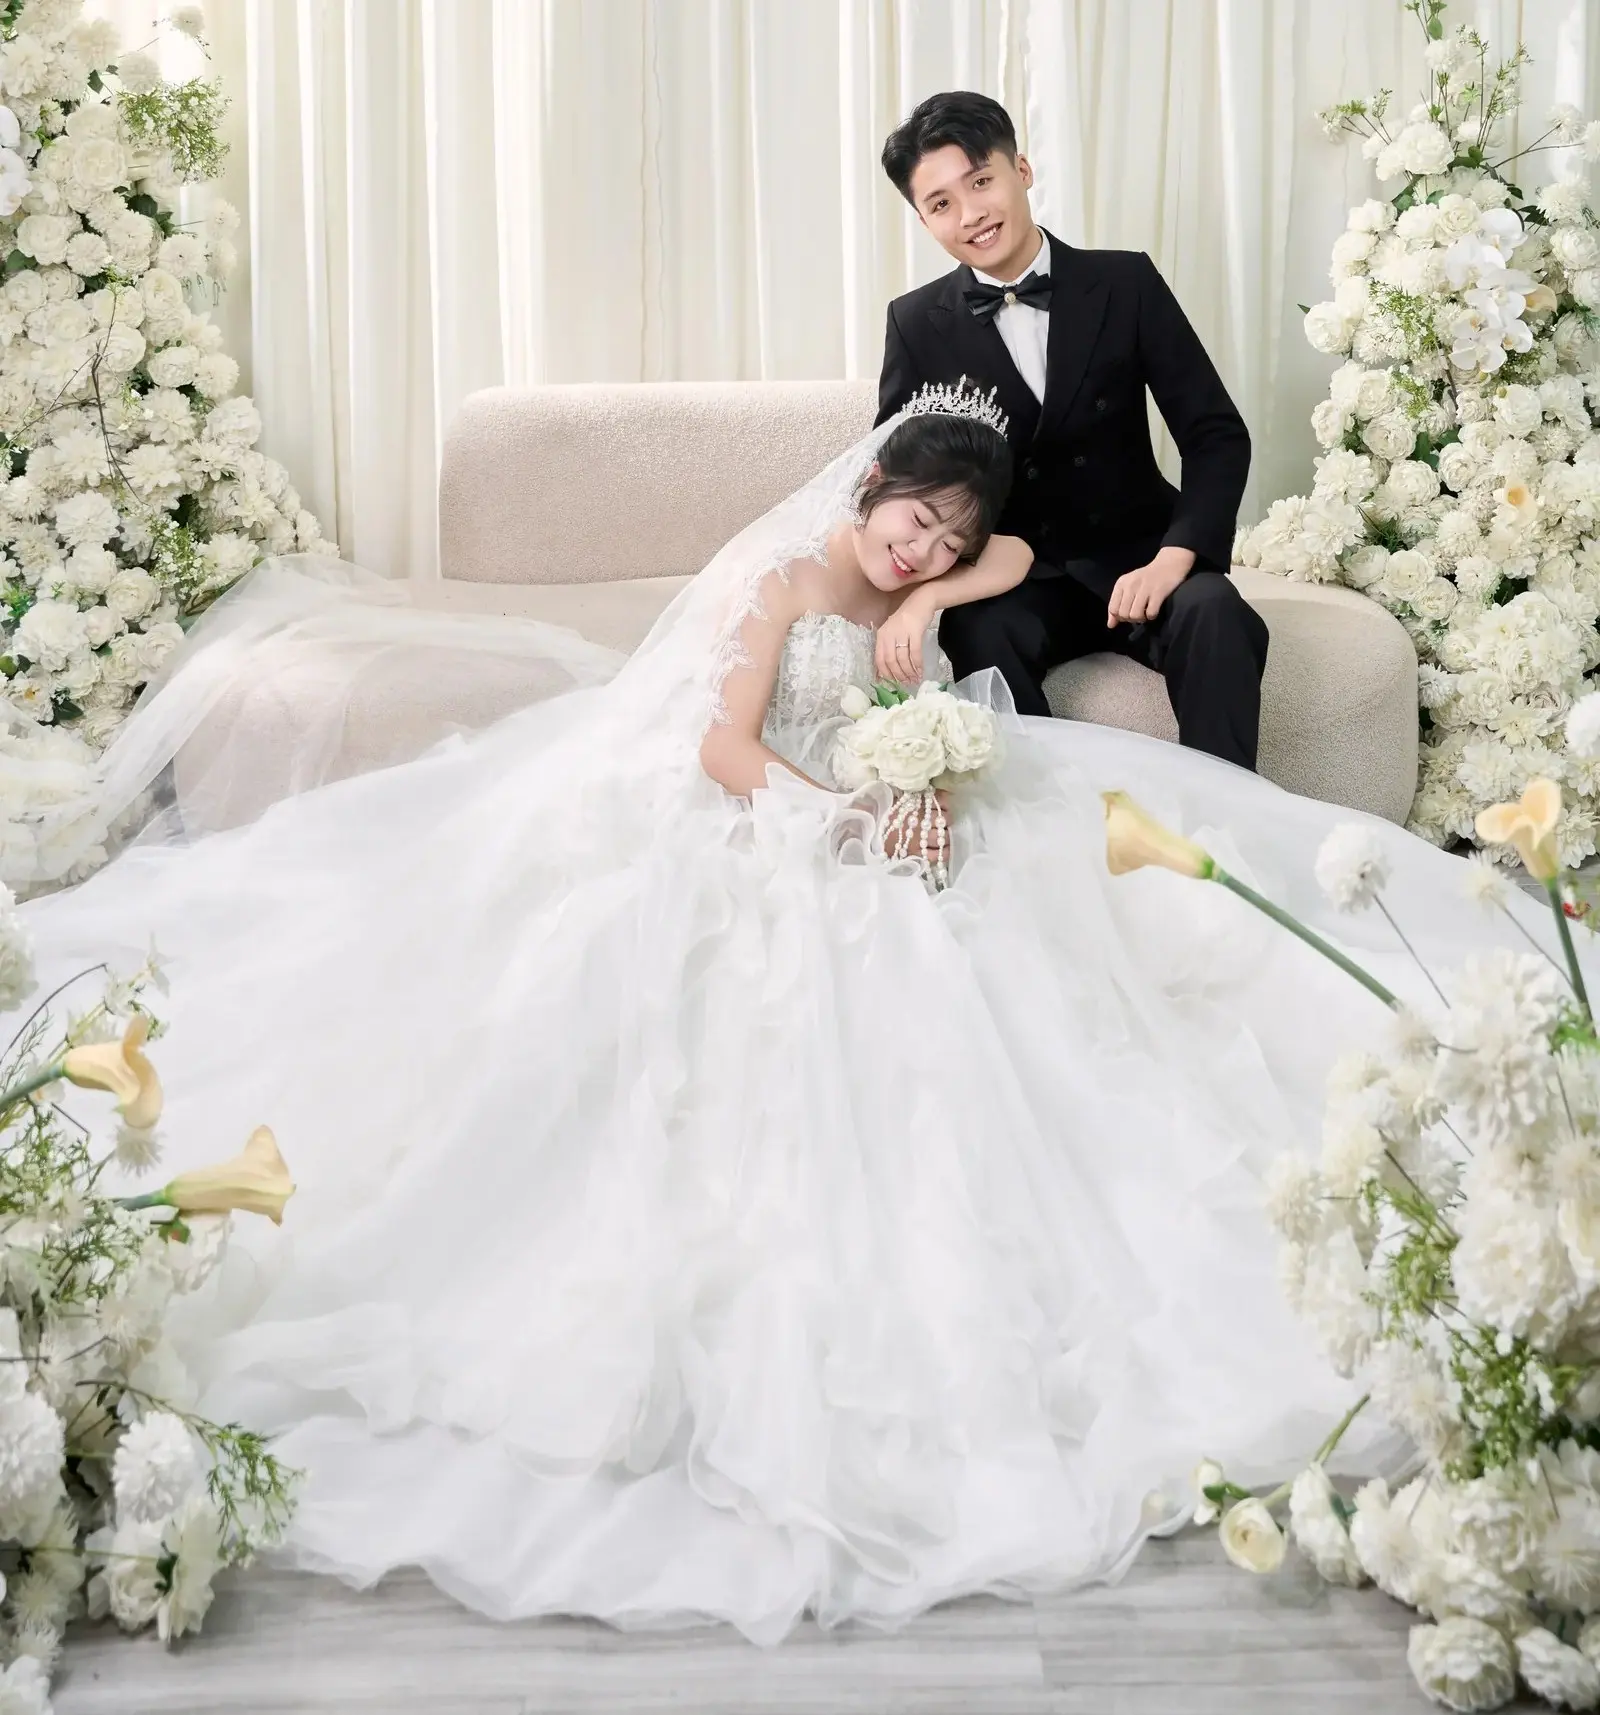
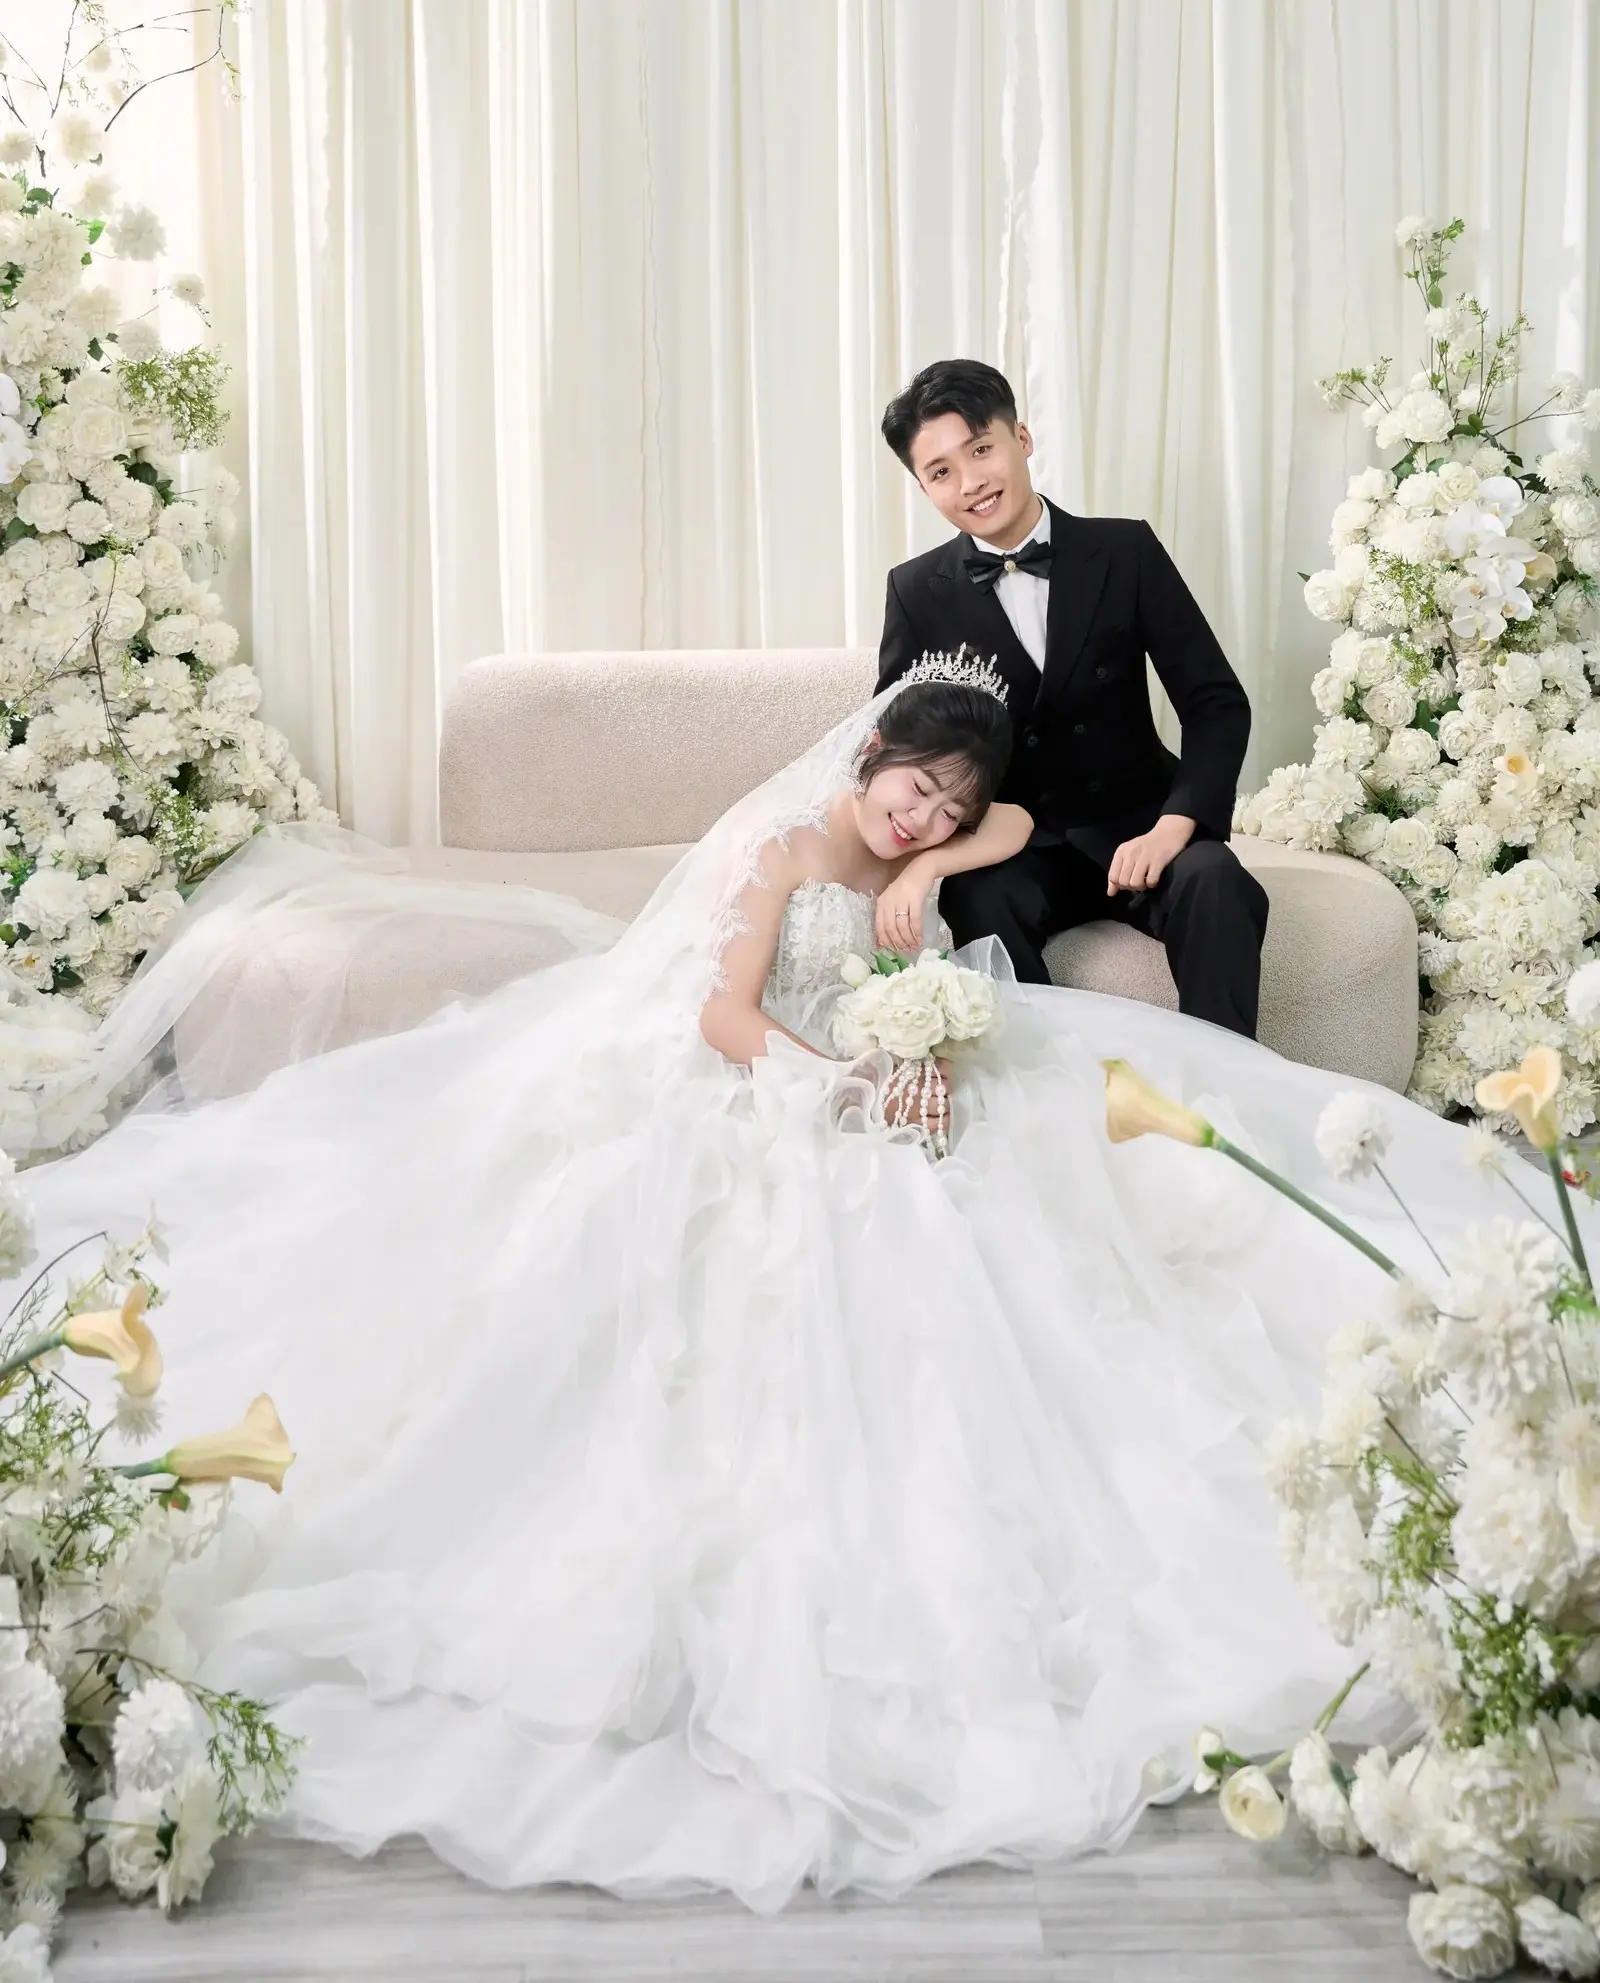
6

diff --git a/nhagai.html b/nhagai.html
@@ -6458,29 +6458,63 @@ body .floating-heart-balloons .love-air:nth-child(n+14){display:none!important}
 }
 
 
+/* V12.8.7 — KHUÔN ẢNH ĐẦU FULL VIEWPORT, GIỮ NGUYÊN ẢNH COVER VÀ BÓNG BAY */
+/* 1 phone frame (440px max) is intentionally preserved on tablets/desktops. */
+#app > #hero.v121-safe-hero{
+  position:relative!important;
+  box-sizing:border-box!important;
+  display:block!important;
+  width:100%!important;
+  height:100svh!important;
+  min-height:100svh!important;
+  max-height:none!important;
+  aspect-ratio:auto!important;
+  margin:0!important;
+  padding:0!important;
+  border:0!important;
+  border-radius:0!important;
+  overflow:hidden!important;
+}
+@supports(height:100dvh){
+  #app > #hero.v121-safe-hero{
+    height:100dvh!important;
+    min-height:100dvh!important;
+  }
+}
+#app > #hero.v121-safe-hero .hero-photo-layer{
+  position:absolute!important;
+  inset:0!important;
+  width:100%!important;
+  height:100%!important;
+  border:0!important;
+  border-radius:0!important;
+  padding:0!important;
+  overflow:hidden!important;
+}
+#app > #hero.v121-safe-hero .hero-photo-layer .hero-slide{
+  position:absolute!important;
+  inset:0!important;
+  width:100%!important;
+  height:100%!important;
+  object-fit:cover!important;
+  object-position:center 30%!important;
+  border:0!important;
+  border-radius:0!important;
+}
+/* No extra GPU animation effects added: existing zoom and floating hearts stay intact. */
 
-/* V12.8.8 — chỉ phục hồi hành vi thanh lời chúc của cover cũ.
-   Hiệu ứng ảnh/bóng bay, độ cao cover và CSS của các chương vẫn như V12.8.6. */
-body:not(.aac-wish-visible) #bar{
-  opacity:0!important;
-  visibility:hidden!important;
+/* V12.8.7 — Chỉ hiển thị ngày mời đã chọn của Nhà Gái. */
+body[data-side="NhaGai"] #dateRoom .aac-event-switcher{
+  grid-template-columns:minmax(0,1fr)!important;
+  max-width:330px!important;
+}
+body[data-side="NhaGai"] #dateRoom .aac-event-switcher a[hidden]{
+  display:none!important;
+}
+body[data-side="NhaGai"] #dateRoom .aac-event-switcher a.active:not([href]){
+  cursor:default!important;
+  transform:none!important;
   pointer-events:none!important;
-  transform:translate(-50%,calc(100% + 16px))!important;
-}
-body:not(.aac-wish-visible) #live{
-  opacity:0!important;
-  visibility:hidden!important;
-  pointer-events:none!important;
-}
-body.invitation-open.aac-wish-visible #bar{
-  opacity:1!important;
-  visibility:visible!important;
-  pointer-events:auto!important;
-  transform:translateX(-50%)!important;
-}
-body.invitation-open.aac-wish-visible #live{
-  visibility:visible!important;
-  opacity:1!important;
 }
 
 </style>
@@ -8229,36 +8263,6 @@ try{
     },{rootMargin:slow?'110px 0px':'220px 0px',threshold:0});
     photos.forEach(img=>urgent.observe(img));
   }
-})();
-</script>
-
-<script>
-/* V12.8.8 — đồng bộ thanh lời chúc theo vị trí cuộn thực tế.
-   Không can thiệp vào slideshow, IntersectionObserver của ảnh, hay bóng bay. */
-(()=>{
-  const cover=document.getElementById('hero');
-  if(!cover)return;
-  let pending=false;
-  function update(){
-    pending=false;
-    const vh=window.visualViewport ? window.visualViewport.height : window.innerHeight;
-    const nearBottom=Math.max(24,Math.min(64,vh*.07));
-    const scrolledPast=cover.getBoundingClientRect().bottom<=nearBottom;
-    document.body.classList.toggle('aac-wish-visible',
-      document.body.classList.contains('invitation-open') && scrolledPast);
-  }
-  function schedule(){
-    if(pending)return;
-    pending=true;
-    requestAnimationFrame(update);
-  }
-  window.addEventListener('scroll',schedule,{passive:true});
-  window.addEventListener('resize',schedule,{passive:true});
-  window.addEventListener('pageshow',schedule);
-  if(window.visualViewport)window.visualViewport.addEventListener('resize',schedule,{passive:true});
-  const button=document.getElementById('openInvitationBtn');
-  if(button)button.addEventListener('click',schedule);
-  update();
 })();
 </script>
 </body>

diff --git a/index.html b/index.html
@@ -6445,30 +6445,50 @@ body .floating-heart-balloons .love-air:nth-child(n+14){display:none!important}
 }
 
 
-
-/* V12.8.8 — chỉ phục hồi hành vi thanh lời chúc của cover cũ.
-   Hiệu ứng ảnh/bóng bay, độ cao cover và CSS của các chương vẫn như V12.8.6. */
-body:not(.aac-wish-visible) #bar{
-  opacity:0!important;
-  visibility:hidden!important;
-  pointer-events:none!important;
-  transform:translate(-50%,calc(100% + 16px))!important;
+/* V12.8.7 — KHUÔN ẢNH ĐẦU FULL VIEWPORT, GIỮ NGUYÊN ẢNH COVER VÀ BÓNG BAY */
+/* 1 phone frame (440px max) is intentionally preserved on tablets/desktops. */
+#app > #hero.v121-safe-hero{
+  position:relative!important;
+  box-sizing:border-box!important;
+  display:block!important;
+  width:100%!important;
+  height:100svh!important;
+  min-height:100svh!important;
+  max-height:none!important;
+  aspect-ratio:auto!important;
+  margin:0!important;
+  padding:0!important;
+  border:0!important;
+  border-radius:0!important;
+  overflow:hidden!important;
 }
-body:not(.aac-wish-visible) #live{
-  opacity:0!important;
-  visibility:hidden!important;
-  pointer-events:none!important;
+@supports(height:100dvh){
+  #app > #hero.v121-safe-hero{
+    height:100dvh!important;
+    min-height:100dvh!important;
+  }
 }
-body.invitation-open.aac-wish-visible #bar{
-  opacity:1!important;
-  visibility:visible!important;
-  pointer-events:auto!important;
-  transform:translateX(-50%)!important;
+#app > #hero.v121-safe-hero .hero-photo-layer{
+  position:absolute!important;
+  inset:0!important;
+  width:100%!important;
+  height:100%!important;
+  border:0!important;
+  border-radius:0!important;
+  padding:0!important;
+  overflow:hidden!important;
 }
-body.invitation-open.aac-wish-visible #live{
-  visibility:visible!important;
-  opacity:1!important;
+#app > #hero.v121-safe-hero .hero-photo-layer .hero-slide{
+  position:absolute!important;
+  inset:0!important;
+  width:100%!important;
+  height:100%!important;
+  object-fit:cover!important;
+  object-position:center 30%!important;
+  border:0!important;
+  border-radius:0!important;
 }
+/* No extra GPU animation effects added: existing zoom and floating hearts stay intact. */
 
 </style>
 </head>
@@ -8184,36 +8204,6 @@ try{
     },{rootMargin:slow?'110px 0px':'220px 0px',threshold:0});
     photos.forEach(img=>urgent.observe(img));
   }
-})();
-</script>
-
-<script>
-/* V12.8.8 — đồng bộ thanh lời chúc theo vị trí cuộn thực tế.
-   Không can thiệp vào slideshow, IntersectionObserver của ảnh, hay bóng bay. */
-(()=>{
-  const cover=document.getElementById('hero');
-  if(!cover)return;
-  let pending=false;
-  function update(){
-    pending=false;
-    const vh=window.visualViewport ? window.visualViewport.height : window.innerHeight;
-    const nearBottom=Math.max(24,Math.min(64,vh*.07));
-    const scrolledPast=cover.getBoundingClientRect().bottom<=nearBottom;
-    document.body.classList.toggle('aac-wish-visible',
-      document.body.classList.contains('invitation-open') && scrolledPast);
-  }
-  function schedule(){
-    if(pending)return;
-    pending=true;
-    requestAnimationFrame(update);
-  }
-  window.addEventListener('scroll',schedule,{passive:true});
-  window.addEventListener('resize',schedule,{passive:true});
-  window.addEventListener('pageshow',schedule);
-  if(window.visualViewport)window.visualViewport.addEventListener('resize',schedule,{passive:true});
-  const button=document.getElementById('openInvitationBtn');
-  if(button)button.addEventListener('click',schedule);
-  update();
 })();
 </script>
 </body>
